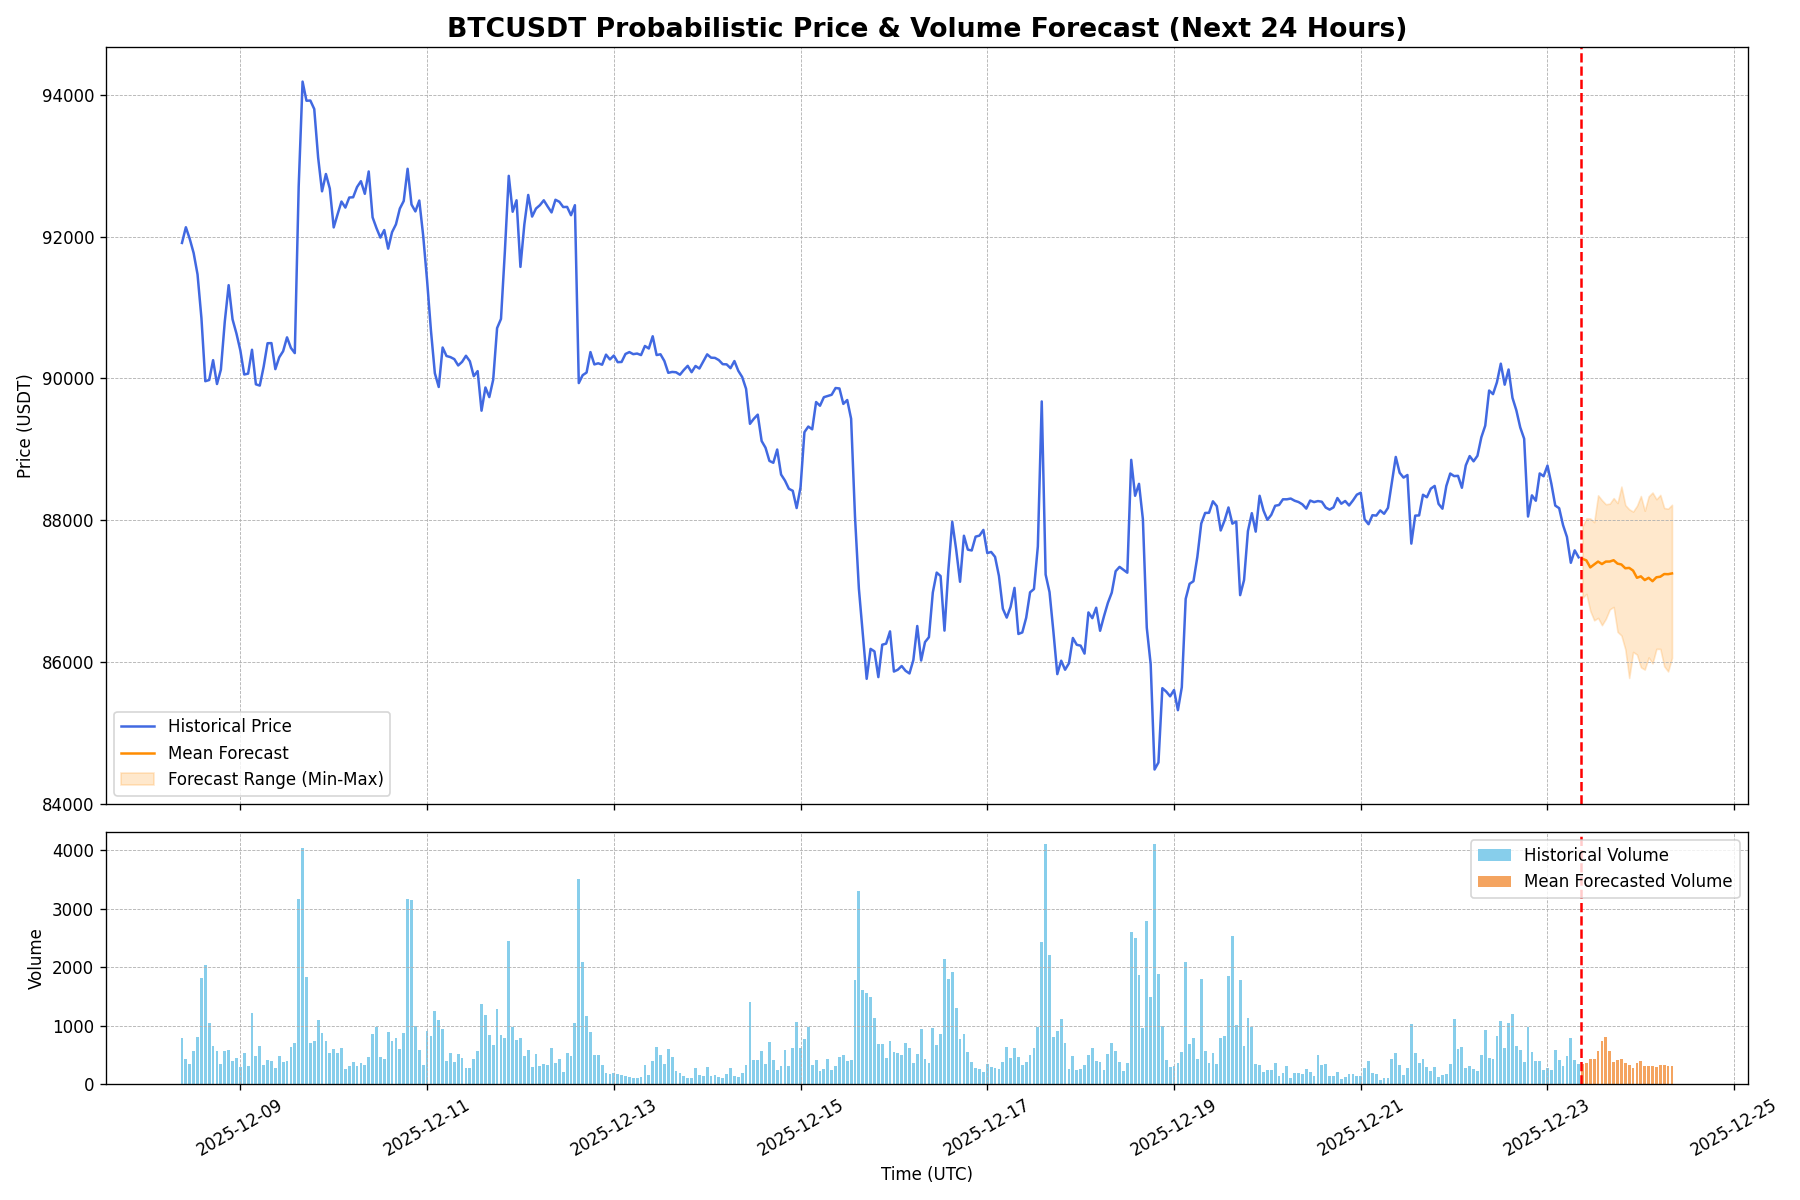
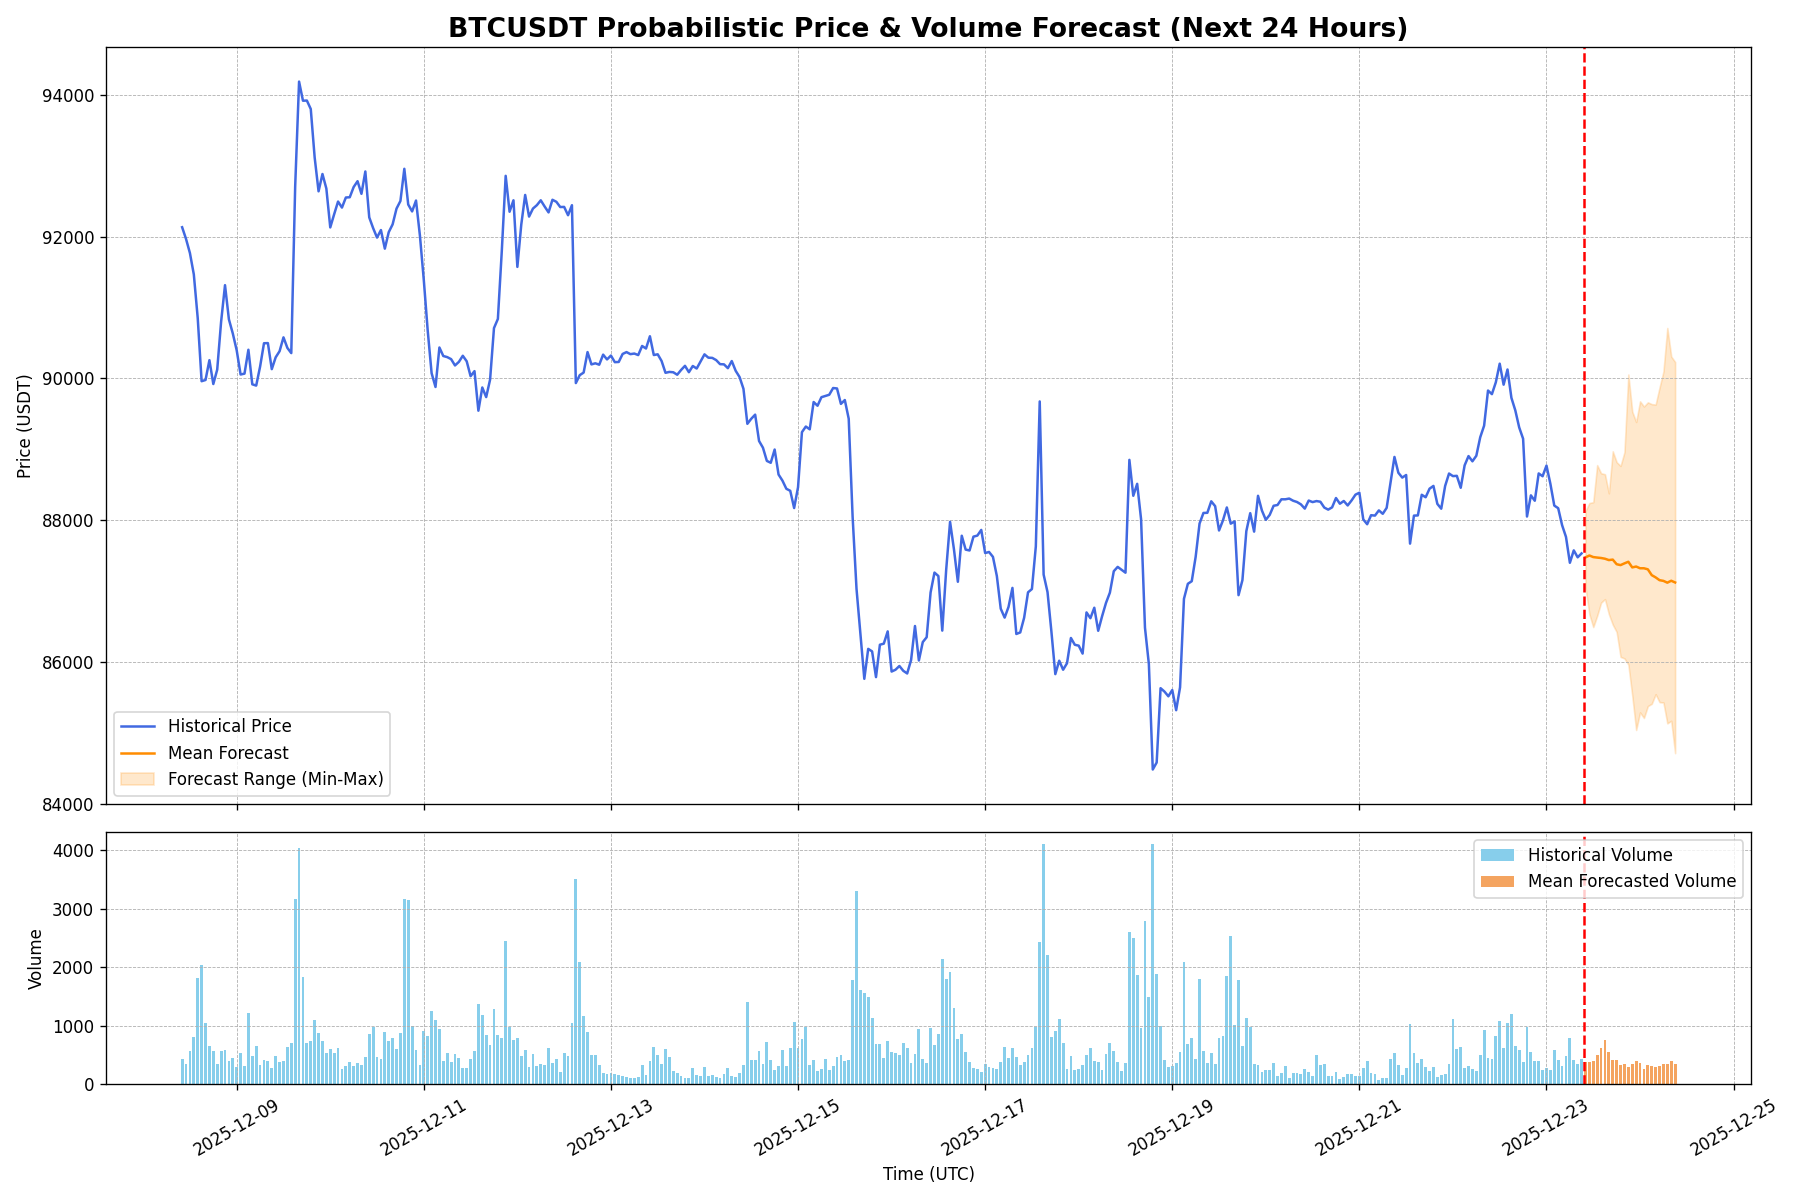
Auto-update forecast for 2025-12-23 10:00 UTC

diff --git a/index.html b/index.html
@@ -22,14 +22,14 @@
         <section id="live-dashboard">
             <h2>Live BTC/USDT Forecast Dashboard</h2>
             <div class="metadata">
-                <span>Last Updated (UTC): <strong id="update-time">2025-12-23 09:00:44</strong></span>
+                <span>Last Updated (UTC): <strong id="update-time">2025-12-23 10:00:45</strong></span>
                 <span>Data Source: Binance | Interval: 1-Hour</span>
             </div>
 
             <div class="metrics-container">
                 <div class="metric-card">
                     <h3>Upside Probability (Next 24h)</h3>
-                    <p class="metric-value" id="upside-prob">43.3%</p>
+                    <p class="metric-value" id="upside-prob">26.7%</p>
                     <div class="metric-desc">The model's confidence that the price in 24 hours will be higher than the last known price.</div>
                 </div>
                 <div class="metric-card">
